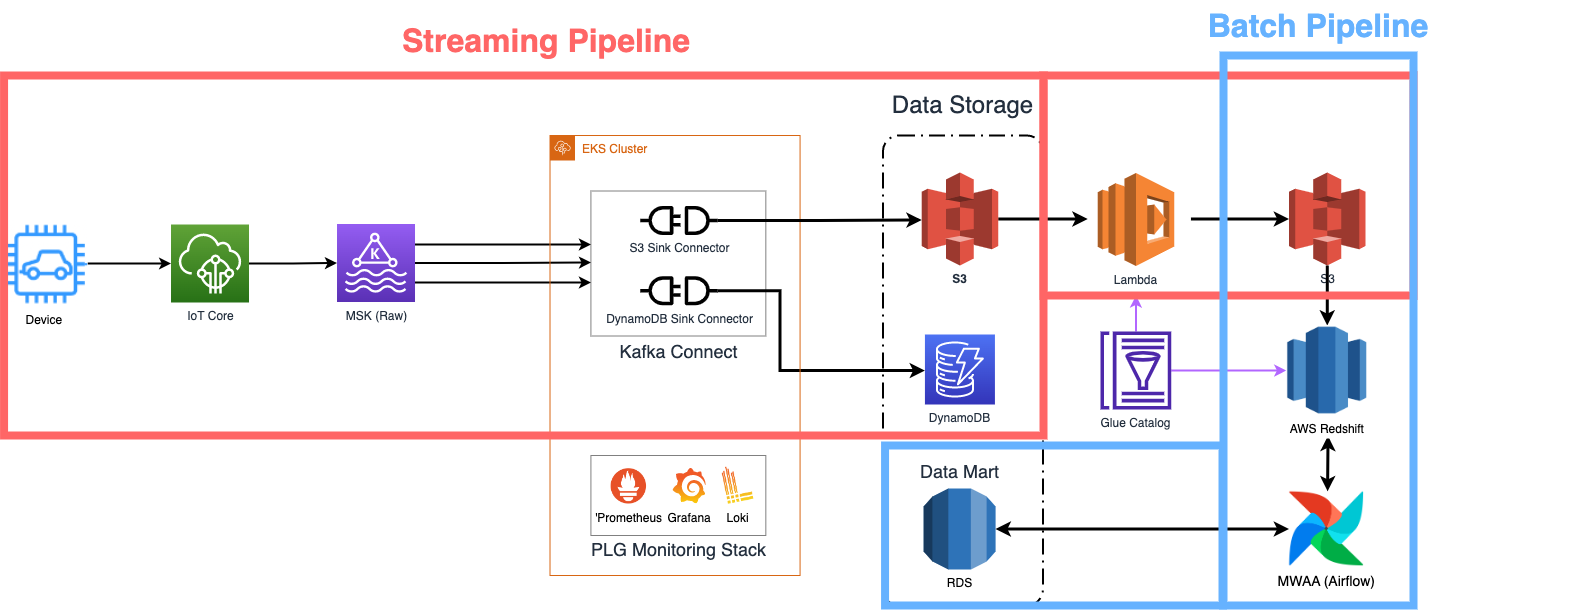
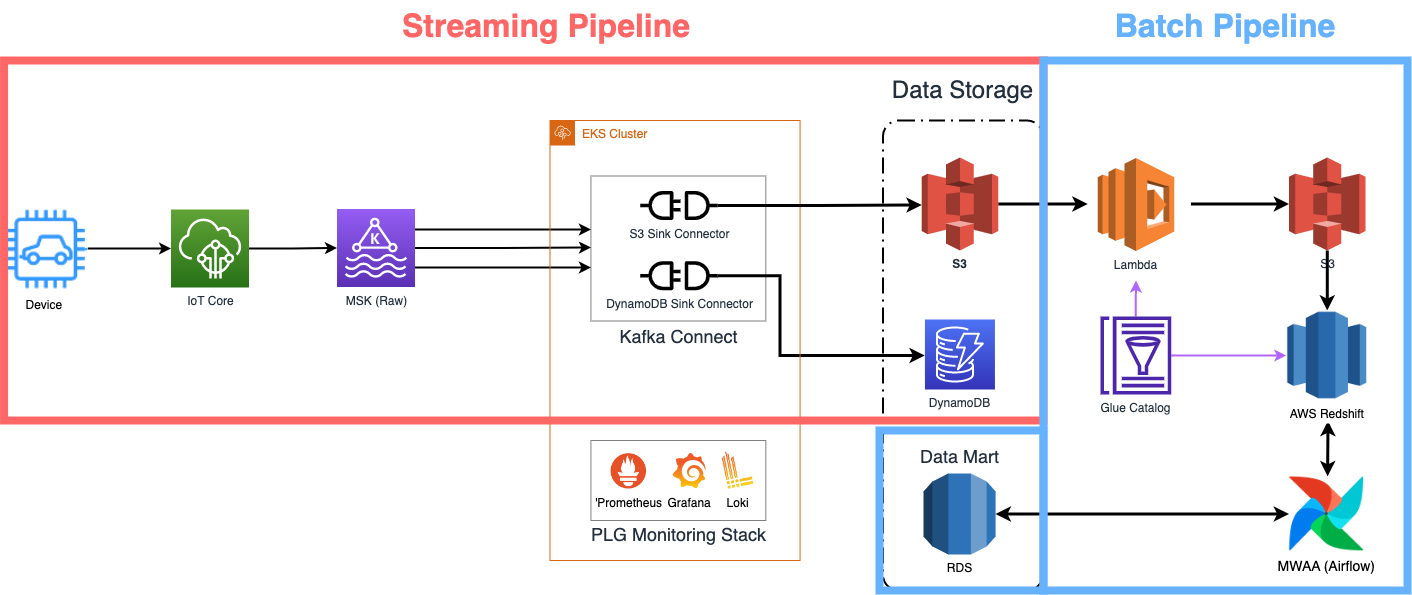
feat(build-fms-data-pipeline): 1부에 도해 추가

Changed region(s): [[0.0, 0.0, 1.0, 1.0], [0.3428, 0.1815, 0.4986, 0.2723]]

diff --git a/_posts/2022-12-11-build-fms-data-pipeline-1.md b/_posts/2022-12-11-build-fms-data-pipeline-1.md
@@ -172,6 +172,8 @@ Airflow는 Airbnb에서 개발한 워크플로우 관리 오픈소스로 현재 
 
 ### 2.2. IoT Core에서 Kafka로
 
+![iot-to-msk.jpeg](/img/build-fms-data-pipeline/iot-to-msk.png)
+
 차량에서 수집된 데이터는 IoT Core의 `메시지 라우팅` 규칙에 따라 kafka로 전송됩니다. 위 메시지에서 분류 목적으로 사용하고 있는 `object` 필드에 대응되는 각 kafka topic으로 라우팅됩니다.
 
 여기서 한가지 중요한 점은 하나의 topic에 여러 프로토콜의 메시지가 들어올 수 있다는 점입니다. 메시지 프로토콜에 1:1 대응되도록 topic을 만든다면 수많은 토픽을 관리해야 하며 관리에 대한 부담이 늘어나게 됩니다.  
@@ -251,6 +253,8 @@ Kafka Connect는 `Standalone Mode`와 `Distributed Mode`가 있는데, Standalon
 Kafka Connect의 동작 방식에 대한 더 자세한 내용은 [여기](https://docs.confluent.io/platform/current/connect/concepts.html)를 참고해주세요.
 
 ### 3.3. 요구 사항 및 결정 이유
+
+![msk-to-storage.jpeg](/img/build-fms-data-pipeline/msk-to-storage.png)
 
 Kakfa 토픽의 메시지를 처리하기 위해 Kafka Consumer와 kafka Connect 중 선택할 때는 현재 비즈니스 요구 사항에 맞춰 장/단점을 잘 비교하여 선택하는 것이 중요합니다. 사실 Kafka 토픽의 메시지를 단순하게 적재하는 경우라면 오픈소스 Kafka Connector를 사용하는 게 낫습니다. 하지만 FMS 프로젝트에는 아래와 같은 요구사항들이 있었고, 충분히 기술적 검토를 한 후 Kafka Connector를 직접 개발하여 하나의 Kafka Connect로 메시지 적재를 관리하자는 결정을 내렸습니다.
 
@@ -614,7 +618,9 @@ Kafka 토픽의 메시지가 잘 처리되고 있는지를 나타내는 `Consume
 
 ## 4. 배치 처리 플랫폼, 반정형 데이터가 분석/집계 되어 적재되기까지
 
-이번 장에서는 FMS 프로젝트에서 구축한 배치 처리 플랫폼에 대해 소개드리겠습니다. 위에서 말씀드린 것처럼 차량의 이동 정보와 같은 실시간 조회의 경우 Redis를, 실시간에서 준 실시간 조회는 DynamoDB를 사용하였습니다. 마지막으로 배치로 처리되는 데이터는 본 플랫폼을 거쳐 데이터 마트(RDS)에 적재됩니다.
+![batch-platform.png](/img/build-fms-data-pipeline/batch-platform.png)
+
+이번 장에서는 FMS 프로젝트에서 구축한 배치 처리 플랫폼에 대해 소개드리겠습니다. 위에서 말씀드린 것처럼 차량의 이동 정보와 같은 실시간 조회의 경우 Redis를, 실시간에서 준 실시간 조회는 DynamoDB를 사용하였습니다. 배치로 처리되는 데이터는 본 플랫폼을 거쳐 데이터 마트(RDS)에 적재됩니다.
 
 ### 4.1. 요구사항 및 결정 사항
 
@@ -817,7 +823,7 @@ class S3ParquetParser:
 
 또한 메시지를 분류하기 위해서는 원본 json 포맷을 Serialization해야 합니다. 먼저 pandas의 `read_json`으로 dataframe화 해서 메시지를 분류하려고 했지만 처리 시간 및 메모리 사용량이 높은 이슈가 있었습니다. 따라서 str 객체의 `splitLines`와 json 모듈의 `loads`로 serialization을 대체하였고 이를 통해 메모리 할당량을 절반 이하로 낮추고 처리 속도를 2배 이상 개선하였습니다.
 
-### 4.5. 모니터링 및 Fallback 처리
+### 4.5. Lambda 모니터링 및 Fallback 처리
 
 ![grafana-lambda](/img/build-fms-data-pipeline/grafana-lambda.png)
 
